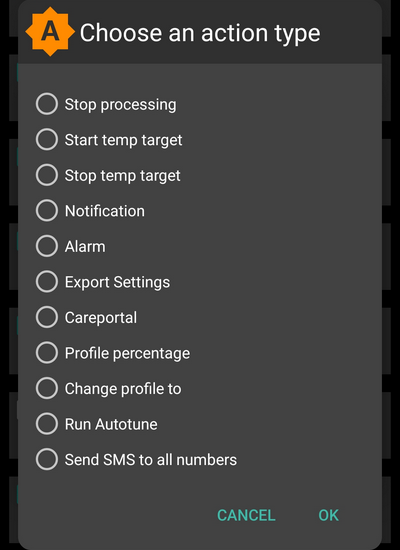
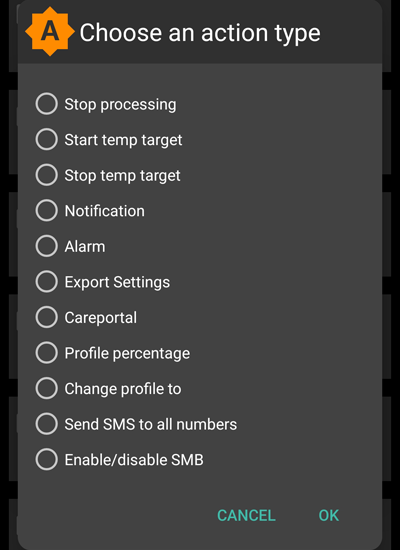
New SMB automation action

diff --git a/docs/EN/DailyLifeWithAaps/Automations.md b/docs/EN/DailyLifeWithAaps/Automations.md
@@ -181,9 +181,10 @@ Note that for all age related triggers the equal comparison is unlikely to trigg
 * Reservoir level trigger: Available for all pumps, comparison "NOT\_AVAILABLE" is not working for this trigger as the value is always filled in **AAPS**
 * Pump battery level trigger: Available for supported pumps, comparison "NOT\_AVAILABLE" is not working for this trigger as the value is always filled in **AAPS**
 
+(automations-automation-action)=
 ## Action
 
-![Automation Triggers](../images/automation_actions.png)
+![Automation Actions](../images/automation_actions.png)
 
 **Actions:** start **Temp Target**
 

diff --git a/docs/EN/Maintenance/ReleaseNotes.md b/docs/EN/Maintenance/ReleaseNotes.md
@@ -77,7 +77,7 @@ Release date: 31-12-2025
 * Running mode @MilosKozak
 * new CGMs
 * [Site rotation](#Aapsscreens-site-rotation) support @Philoul
-* ability to stop SMB from UI @MilosKozak
+* New [automation action](#automations-automation-action) : enable or disable SMBs @MilosKozak
 * Syai CGM is [trusted source](#GettingStarted-TrustedBGSource) and supports advanced filtering @MilosKozak
 
 ### Wear OS Improvements
